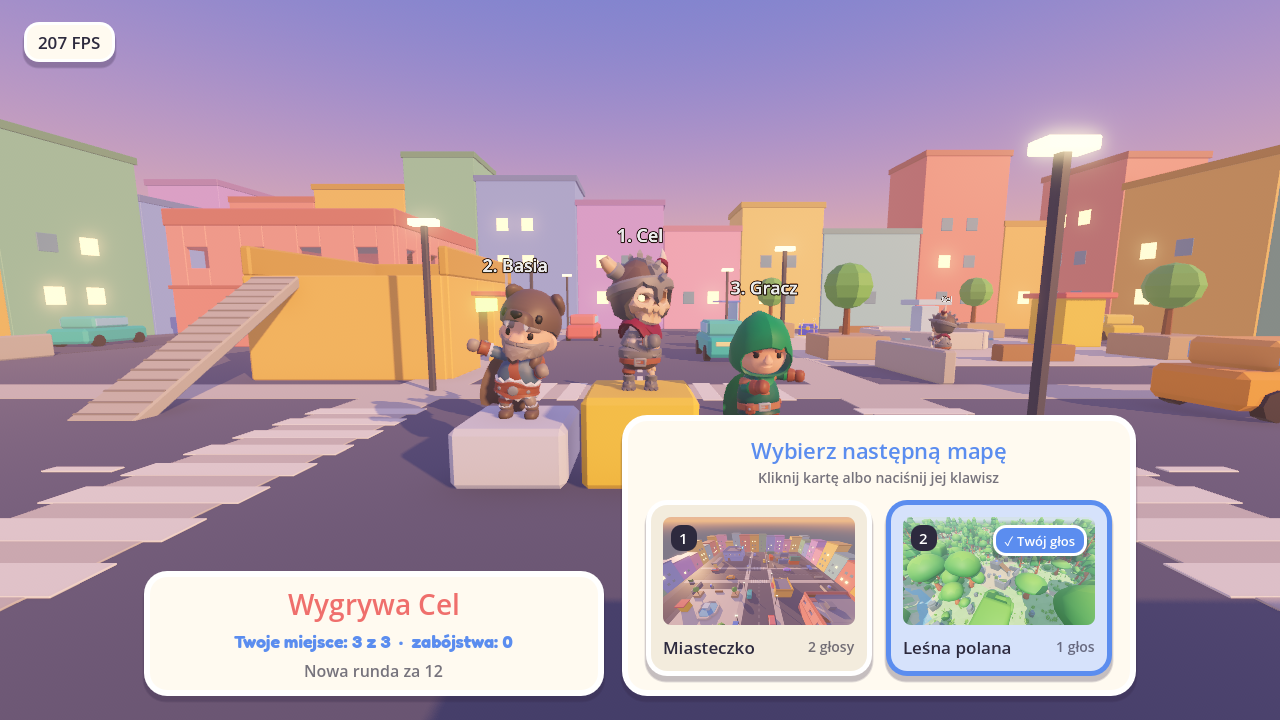
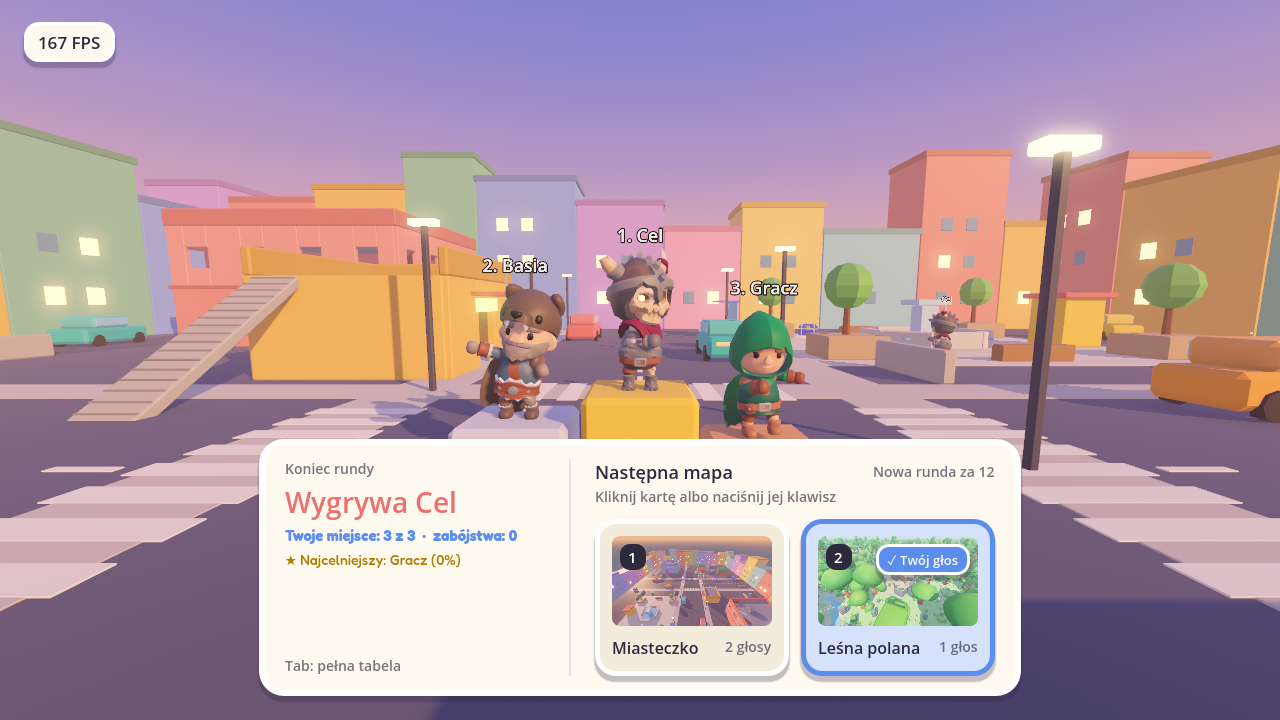
Merge round results and map vote into one panel
Two side-by-side panels of different sizes made it hard to tell what
belonged where. The podium screen now has one low panel: the round
result on the left (eyebrow, winner, your place, awards, Tab hint) and
the next-map vote on the right, split by a thin line and both read from
the top-left. docs/UI.md gains a "one moment, one panel" rule.

Changed region(s): [[0.0938, 0.55, 0.9062, 0.9778]]

diff --git a/docs/UI.md b/docs/UI.md
@@ -32,7 +32,14 @@ Odstępy biorą wartości ze skali **4, 8, 12, 16, 20, 24**.
 - Obraz w karcie (miniaturka, ikona) ma ten sam margines od krawędzi co tekst, żeby wszystko stało w jednej linii.
 - Zaokrąglenia zagnieżdżone: promień w środku = promień na zewnątrz − margines (np. karta 18 z marginesem 10 → obrazek 8). Inaczej rogi wyglądają krzywo.
 
-## 3. Klikalne rzeczy wyglądają na klikalne
+## 3. Jeden moment, jeden panel
+
+- To, co gracz ogląda w jednej chwili (np. wynik rundy i wybór następnej mapy), stoi w jednym panelu, podzielonym na sekcje cienką kreską. Nie stawiamy obok siebie dwóch osobnych okien różnej wielkości.
+- Sekcje w panelu mają ten sam układ: czytamy je od lewej górnej krawędzi, ich nagłówki stoją na jednej wysokości, a tekst nie jest raz wyśrodkowany, a raz wyrównany do lewej.
+- Kolejność ważności widać od razu: mały nadtytuł (co to za ekran), duży nagłówek (najważniejsza informacja), potem szczegóły i na końcu podpowiedzi.
+- Każda sekcja z wyborem ma nagłówek mówiący, czego dotyczy, i jednozdaniową podpowiedź, jak wybrać.
+
+## 4. Klikalne rzeczy wyglądają na klikalne
 
 - Wszystko, co można kliknąć, ma trzy stany: zwykły, pod kursorem (jaśniejsze tło i żółta obwódka `SUN`) i wybrany (`BLUE`).
 - Pod kursorem pojawia się rączka (`CURSOR_POINTING_HAND`) i cichy dźwięk `HOVER`, a kliknięcie gra `CONFIRM` i lekko podskakuje.
@@ -40,19 +47,19 @@ Odstępy biorą wartości ze skali **4, 8, 12, 16, 20, 24**.
 - Panel z wyborem ma krótki tytuł, co wybieramy, i jednozdaniową podpowiedź jak.
 - Gdy gra czeka na kliknięcie, kursor jest widoczny. Po wyborze lub końcu etapu znika, a kliknięcie, które go schowało, nie strzela.
 
-## 4. Kolory
+## 5. Kolory
 
 - Tło okien i kart: `PAPER`, w kartach zagnieżdżonych ciemniejszy krem `f3ecdd`. Tekst: `INK`.
 - Akcent i wybór: `BLUE`. Ostrzeżenie i zwycięzca: `CORAL`. Najechanie i odliczanie: `SUN`. Dobrze/gotowe: `TEAL`.
 - Tekst na obrazku dostaje własne tło (znaczek), nigdy nie leży gołym tekstem na zdjęciu.
 
-## 5. Układ na ekranie
+## 6. Układ na ekranie
 
 - Okna w trakcie gry nie zasłaniają środka ekranu ani tego, na co gracz ma patrzeć (np. postaci na podium).
 - Lewy dół to zdrowie i czat, prawy dół to amunicja i mapka, góra to zegar i strefa. Nowe elementy wchodzą tam, gdzie jest wolno, a test `hud_layout_test` pilnuje, żeby nic się nie nakładało przy każdej skali interfejsu.
 - Okna pojawiają się z `UiStyle.pop_in`, a okna modalne przyciemniają grę.
 
-## 6. Przed oddaniem
+## 7. Przed oddaniem
 
 - Zrzut 1280×720 i sprawdzenie: czy tekst ma oddech od krawędzi, czy rozmiary trzymają tabelę, czy widać, co można kliknąć.
 - Po zmianie wyglądu odświeżamy zrzuty w `docs/screenshots`, które pokazuje README.
